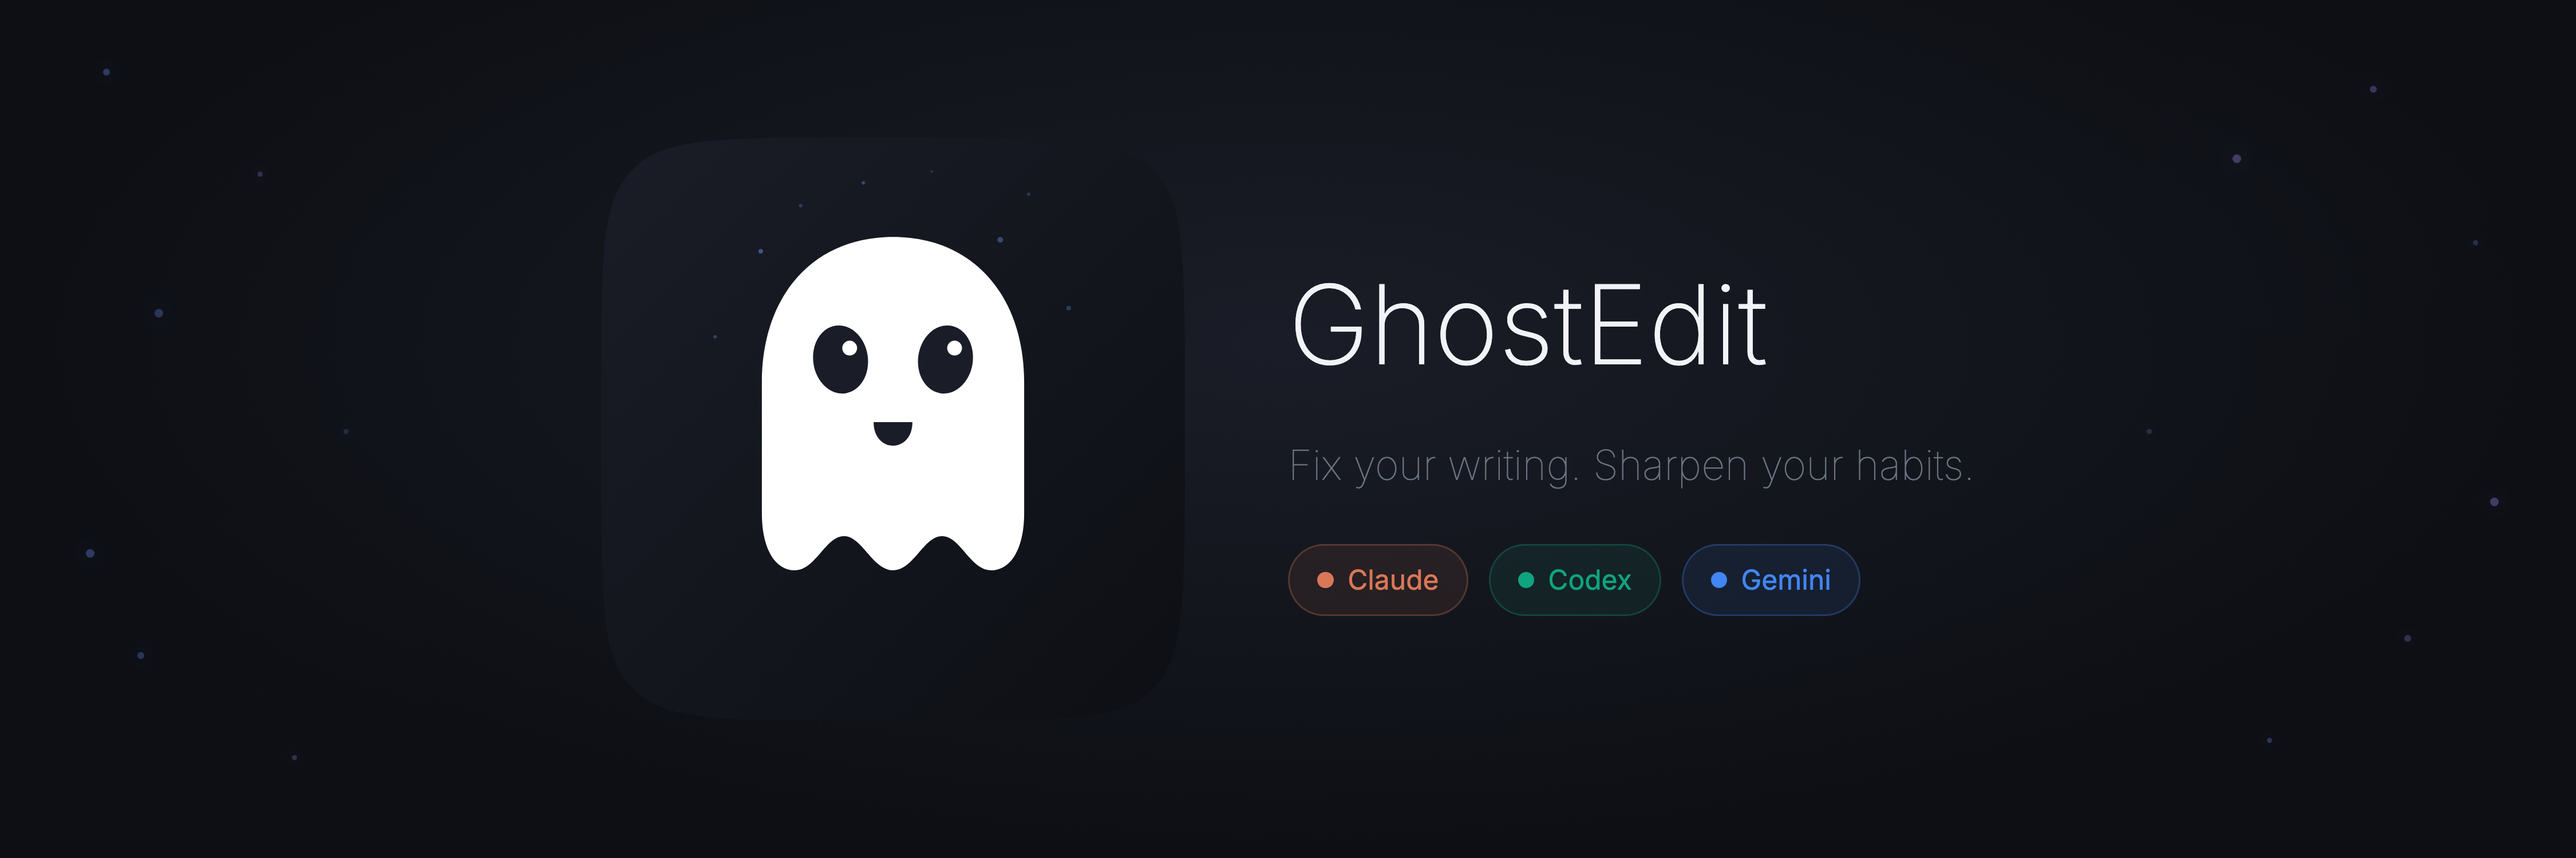
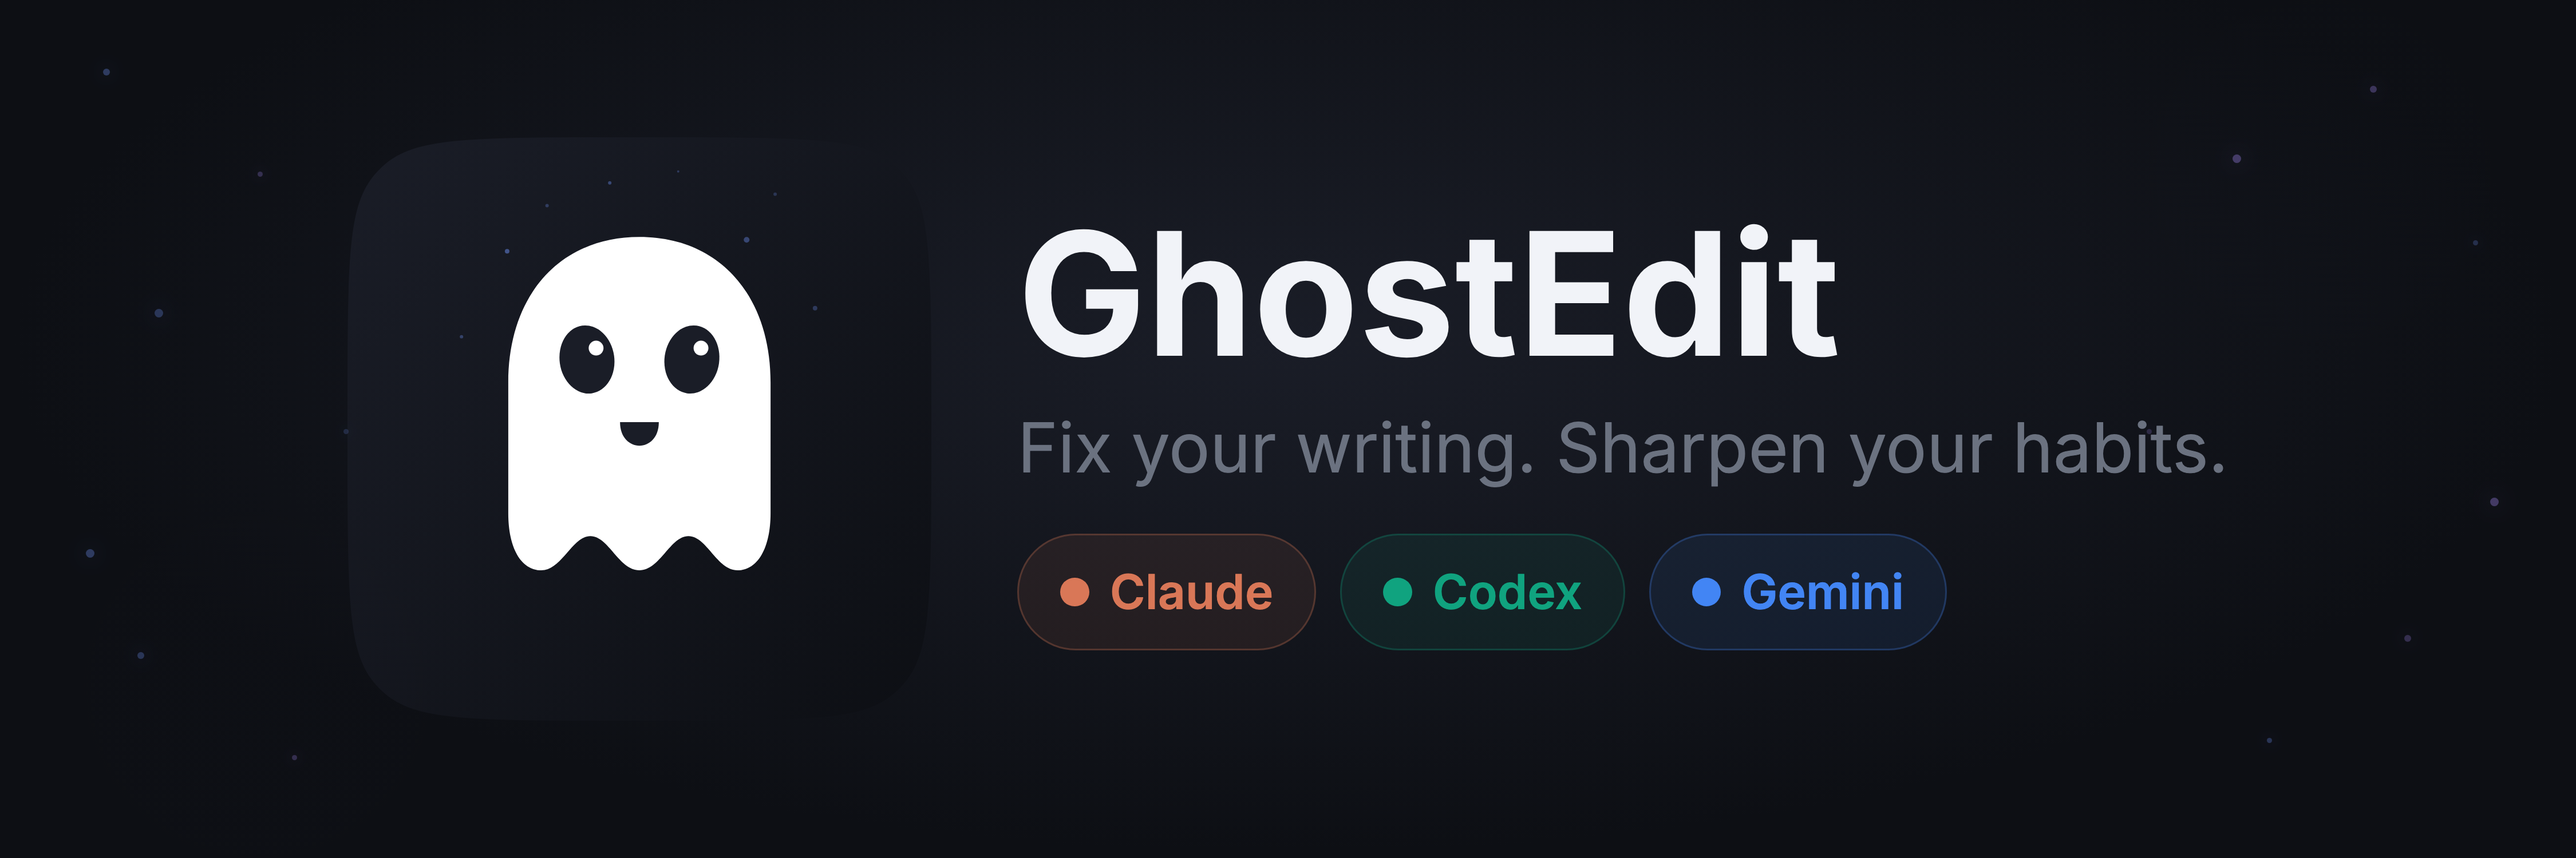
chore: update the assets

Changed region(s): [[0.1867, 0.2453, 0.8711, 0.6747], [0.4044, 0.6133, 0.7467, 0.736]]

diff --git a/remotion/src/stills/InstagramPost.tsx b/remotion/src/stills/InstagramPost.tsx
@@ -29,20 +29,21 @@ export const InstagramPost: React.FC = () => {
           justifyContent: "center",
           width: "100%",
           height: "100%",
-          padding: 60,
-          gap: 32,
+          padding: 50,
+          gap: 24,
         }}
       >
         {/* Icon */}
-        <GhostLogo size={260} glowOpacity={0.3} showParticles />
+        <GhostLogo size={280} glowOpacity={0.3} showParticles />
 
         {/* Title */}
         <div
           style={{
             ...fontStyles.title,
-            fontSize: 72,
+            fontSize: 120,
             color: colors.spiritWhite,
             textAlign: "center",
+            lineHeight: 1,
           }}
         >
           GhostEdit
@@ -51,9 +52,10 @@ export const InstagramPost: React.FC = () => {
         <div
           style={{
             ...fontStyles.body,
-            fontSize: 26,
+            fontSize: 42,
             color: colors.etherGray,
             textAlign: "center",
+            lineHeight: 1.2,
           }}
         >
           Fix your writing. Sharpen your habits.
@@ -65,7 +67,7 @@ export const InstagramPost: React.FC = () => {
             display: "flex",
             flexDirection: "column",
             gap: 16,
-            marginTop: 20,
+            marginTop: 12,
             width: "100%",
           }}
         >
@@ -79,16 +81,16 @@ export const InstagramPost: React.FC = () => {
               style={{
                 display: "flex",
                 alignItems: "center",
-                gap: 16,
-                padding: "16px 24px",
-                borderRadius: 12,
+                gap: 18,
+                padding: "18px 28px",
+                borderRadius: 14,
                 backgroundColor: `${colors.phantomSlate}CC`,
                 ...fontStyles.regular,
-                fontSize: 24,
+                fontSize: 38,
                 color: colors.spiritWhite,
               }}
             >
-              <span style={{ fontSize: 28 }}>{item.icon}</span>
+              <span style={{ fontSize: 44 }}>{item.icon}</span>
               {item.text}
             </div>
           ))}
@@ -98,9 +100,9 @@ export const InstagramPost: React.FC = () => {
         <div
           style={{
             ...fontStyles.body,
-            fontSize: 18,
+            fontSize: 30,
             color: colors.etherGray,
-            marginTop: 12,
+            marginTop: 8,
           }}
         >
           Available for macOS

diff --git a/remotion/src/stills/GitHubSocialPreview.tsx b/remotion/src/stills/GitHubSocialPreview.tsx
@@ -23,16 +23,17 @@ export const GitHubSocialPreview: React.FC = () => {
           style={{
             display: "flex",
             flexDirection: "column",
-            gap: 20,
+            gap: 16,
             flex: 1,
           }}
         >
-          <GhostLogo size={160} glowOpacity={0.3} />
+          <GhostLogo size={180} glowOpacity={0.3} />
           <div
             style={{
               ...fontStyles.title,
-              fontSize: 56,
+              fontSize: 88,
               color: colors.spiritWhite,
+              lineHeight: 1,
             }}
           >
             GhostEdit
@@ -40,14 +41,14 @@ export const GitHubSocialPreview: React.FC = () => {
           <div
             style={{
               ...fontStyles.body,
-              fontSize: 22,
+              fontSize: 34,
               color: colors.etherGray,
-              lineHeight: 1.4,
+              lineHeight: 1.3,
             }}
           >
             Native macOS menu bar app that fixes your writing with local AI.
           </div>
-          <div style={{ display: "flex", gap: 10, marginTop: 8 }}>
+          <div style={{ display: "flex", gap: 12, marginTop: 6 }}>
             <ProviderBadge provider="Claude" size="sm" />
             <ProviderBadge provider="Codex" size="sm" />
             <ProviderBadge provider="Gemini" size="sm" />
@@ -59,25 +60,26 @@ export const GitHubSocialPreview: React.FC = () => {
           style={{
             display: "flex",
             flexDirection: "column",
-            gap: 14,
+            gap: 16,
           }}
         >
           {[
             "⌘E — Fix in any app",
             "🔒 Local AI providers",
-            "📝 Writing coach mode",
+            "📝 Writing coach",
             "⚡ Works everywhere",
           ].map((feature, i) => (
             <div
               key={i}
               style={{
-                padding: "12px 24px",
-                borderRadius: 10,
+                padding: "16px 28px",
+                borderRadius: 12,
                 backgroundColor: colors.phantomSlate,
                 border: `1px solid ${colors.etherGray}22`,
                 ...fontStyles.regular,
-                fontSize: 20,
+                fontSize: 32,
                 color: colors.spiritWhite,
+                whiteSpace: "nowrap",
               }}
             >
               {feature}

diff --git a/remotion/src/stills/OpenGraphImage.tsx b/remotion/src/stills/OpenGraphImage.tsx
@@ -15,16 +15,17 @@ export const OpenGraphImage: React.FC = () => {
           justifyContent: "center",
           width: "100%",
           height: "100%",
-          gap: 24,
+          gap: 20,
         }}
       >
-        <GhostLogo size={200} glowOpacity={0.3} />
+        <GhostLogo size={240} glowOpacity={0.3} />
 
         <div
           style={{
             ...fontStyles.title,
-            fontSize: 72,
+            fontSize: 120,
             color: colors.spiritWhite,
+            lineHeight: 1,
           }}
         >
           GhostEdit
@@ -33,8 +34,9 @@ export const OpenGraphImage: React.FC = () => {
         <div
           style={{
             ...fontStyles.body,
-            fontSize: 28,
+            fontSize: 44,
             color: colors.etherGray,
+            lineHeight: 1.2,
           }}
         >
           Fix your writing. Sharpen your habits.
@@ -43,19 +45,19 @@ export const OpenGraphImage: React.FC = () => {
         {/* Before/After example */}
         <div
           style={{
-            marginTop: 24,
+            marginTop: 16,
             display: "flex",
             flexDirection: "column",
-            gap: 8,
-            padding: "20px 32px",
-            borderRadius: 12,
+            gap: 10,
+            padding: "24px 40px",
+            borderRadius: 14,
             backgroundColor: colors.phantomSlate,
           }}
         >
           <div
             style={{
               ...fontStyles.regular,
-              fontSize: 22,
+              fontSize: 34,
               color: colors.whisperRose,
               textDecoration: "line-through",
             }}
@@ -65,7 +67,7 @@ export const OpenGraphImage: React.FC = () => {
           <div
             style={{
               ...fontStyles.regular,
-              fontSize: 22,
+              fontSize: 34,
               color: colors.phantomGreen,
             }}
           >

diff --git a/remotion/src/stills/TwitterBanner.tsx b/remotion/src/stills/TwitterBanner.tsx
@@ -82,8 +82,8 @@ export const TwitterBanner: React.FC = () => {
           justifyContent: "center",
           width: "100%",
           height: "100%",
-          padding: "0 50px",
-          gap: 60,
+          padding: "0 60px",
+          gap: 50,
         }}
       >
         {/* Left - Logo */}
@@ -100,8 +100,9 @@ export const TwitterBanner: React.FC = () => {
           <div
             style={{
               ...fontStyles.title,
-              fontSize: 64,
+              fontSize: 100,
               color: colors.spiritWhite,
+              lineHeight: 1,
             }}
           >
             GhostEdit
@@ -109,14 +110,14 @@ export const TwitterBanner: React.FC = () => {
           <div
             style={{
               ...fontStyles.body,
-              fontSize: 24,
+              fontSize: 40,
               color: colors.etherGray,
-              maxWidth: 500,
+              lineHeight: 1.2,
             }}
           >
             Fix your writing. Sharpen your habits.
           </div>
-          <div style={{ display: "flex", gap: 12, marginTop: 12 }}>
+          <div style={{ display: "flex", gap: 14, marginTop: 10 }}>
             <ProviderBadge provider="Claude" size="md" />
             <ProviderBadge provider="Codex" size="md" />
             <ProviderBadge provider="Gemini" size="md" />

diff --git a/remotion/src/components/ProviderBadge.tsx b/remotion/src/components/ProviderBadge.tsx
@@ -18,16 +18,16 @@ export const ProviderBadge: React.FC<ProviderBadgeProps> = ({
   provider,
   size = "md",
 }) => {
-  const fontSize = size === "sm" ? 12 : size === "md" ? 16 : 22;
-  const paddingH = size === "sm" ? 10 : size === "md" ? 16 : 24;
-  const paddingV = size === "sm" ? 4 : size === "md" ? 8 : 12;
+  const fontSize = size === "sm" ? 20 : size === "md" ? 28 : 38;
+  const paddingH = size === "sm" ? 16 : size === "md" ? 24 : 36;
+  const paddingV = size === "sm" ? 8 : size === "md" ? 12 : 18;
 
   return (
     <div
       style={{
         display: "inline-flex",
         alignItems: "center",
-        gap: 8,
+        gap: 12,
         padding: `${paddingV}px ${paddingH}px`,
         borderRadius: 999,
         backgroundColor: `${providerColors[provider]}18`,

diff --git a/remotion/src/theme/fonts.ts b/remotion/src/theme/fonts.ts
@@ -1,7 +1,7 @@
 import { loadFont } from "@remotion/google-fonts/Inter";
 
 const { fontFamily } = loadFont("normal", {
-  weights: ["100", "200", "400"],
+  weights: ["400", "600", "700"],
   subsets: ["latin"],
 });
 
@@ -10,14 +10,14 @@ export const interFamily = fontFamily;
 export const fontStyles = {
   title: {
     fontFamily,
-    fontWeight: 200 as const,
+    fontWeight: 700 as const,
   },
   body: {
     fontFamily,
-    fontWeight: 100 as const,
+    fontWeight: 400 as const,
   },
   regular: {
     fontFamily,
-    fontWeight: 400 as const,
+    fontWeight: 600 as const,
   },
 };
